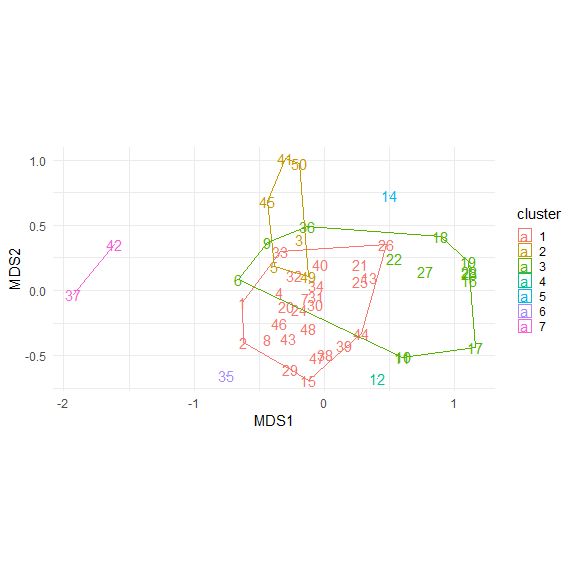
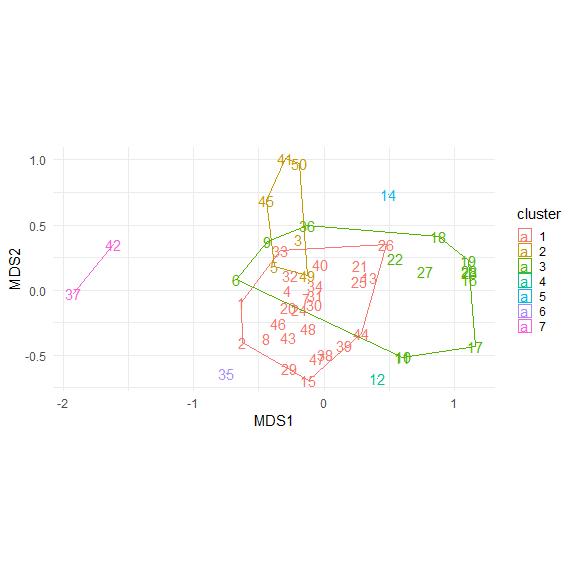
Draft zooplankton community analysis

diff --git a/Zoopl-Community-Analysis.md b/Zoopl-Community-Analysis.md
@@ -76,7 +76,7 @@ confirmed.
 # Two rows of Balanus from one sample.
 
 ``` r
-zoopl_community$count[18] <- 35 + 29
+zoopl_community$count[18] <- (35 + 29)/2
 zoopl_community <- zoopl_community[-19,]
 ```
 
@@ -111,7 +111,7 @@ zoopl_community
 #>  1 Bagadu~      55           103          0         116      32      0        32
 #>  2 Bagadu~      50           126          0          64      79      0         0
 #>  3 Bagadu~      41           147          0         154       0      0         0
-#>  4 Bagadu~      67           104         83          40      64      0         0
+#>  4 Bagadu~      67           104         83          40      32      0         0
 #>  5 Bagadu~      45            41         31         106      15      0        17
 #>  6 Bagadu~     211            42          0           0      81     48       134
 #>  7 Bagadu~     297            72         62          79      53      0         0
@@ -126,71 +126,81 @@ zoopl_community
 
 ## Default 2-D NMDS
 
+This generally fails to converge.
+
 ``` r
 NMDS_default <- metaMDS(zoopl_community[,-1], k = 2, autotransform = TRUE,
                         maxit = 50, trymax = 50)
 #> Square root transformation
 #> Wisconsin double standardization
-#> Run 0 stress 0.2059876 
-#> Run 1 stress 0.2003903 
+#> Run 0 stress 0.205402 
+#> Run 1 stress 0.2048711 
 #> ... New best solution
-#> ... Procrustes: rmse 0.07727681  max resid 0.2498926 
-#> Run 2 stress 0.1867486 
+#> ... Procrustes: rmse 0.09486153  max resid 0.2776757 
+#> Run 2 stress 0.1886686 
 #> ... New best solution
-#> ... Procrustes: rmse 0.07885747  max resid 0.2043896 
-#> Run 3 stress 0.1935797 
-#> Run 4 stress 0.1895086 
-#> Run 5 stress 0.2010221 
-#> Run 6 stress 0.2100378 
-#> Run 7 stress 0.2123175 
-#> Run 8 stress 0.1964796 
-#> Run 9 stress 0.1918425 
-#> Run 10 stress 0.1951201 
-#> Run 11 stress 0.196853 
-#> Run 12 stress 0.1951306 
-#> Run 13 stress 0.2095153 
-#> Run 14 stress 0.2053139 
-#> Run 15 stress 0.2113976 
-#> Run 16 stress 0.1877556 
-#> Run 17 stress 0.2046536 
-#> Run 18 stress 0.1901558 
-#> Run 19 stress 0.192635 
-#> Run 20 stress 0.193504 
-#> Run 21 stress 0.2024208 
-#> Run 22 stress 0.1896553 
-#> Run 23 stress 0.2001391 
-#> Run 24 stress 0.2089482 
-#> Run 25 stress 0.199861 
-#> Run 26 stress 0.2040772 
-#> Run 27 stress 0.190485 
-#> Run 28 stress 0.204831 
-#> Run 29 stress 0.2060007 
-#> Run 30 stress 0.2041718 
-#> Run 31 stress 0.2053776 
-#> Run 32 stress 0.2038777 
-#> Run 33 stress 0.1992232 
-#> Run 34 stress 0.2091926 
-#> Run 35 stress 0.2117059 
-#> Run 36 stress 0.2023679 
-#> Run 37 stress 0.2032589 
-#> Run 38 stress 0.1849829 
+#> ... Procrustes: rmse 0.07037083  max resid 0.2409328 
+#> Run 3 stress 0.2135785 
+#> Run 4 stress 0.1886024 
 #> ... New best solution
-#> ... Procrustes: rmse 0.04444531  max resid 0.2328228 
-#> Run 39 stress 0.1981218 
-#> Run 40 stress 0.1896055 
-#> Run 41 stress 0.2186814 
-#> Run 42 stress 0.1857615 
-#> Run 43 stress 0.1910557 
-#> Run 44 stress 0.2105312 
-#> Run 45 stress 0.1912791 
-#> Run 46 stress 0.1999969 
-#> Run 47 stress 0.199899 
-#> Run 48 stress 0.2000315 
-#> Run 49 stress 0.205945 
-#> Run 50 stress 0.2141925 
+#> ... Procrustes: rmse 0.02757016  max resid 0.1180147 
+#> Run 5 stress 0.2067008 
+#> Run 6 stress 0.1998152 
+#> Run 7 stress 0.20853 
+#> Run 8 stress 0.1978532 
+#> Run 9 stress 0.1853602 
+#> ... New best solution
+#> ... Procrustes: rmse 0.05351339  max resid 0.2410094 
+#> Run 10 stress 0.1891529 
+#> Run 11 stress 0.202062 
+#> Run 12 stress 0.2205635 
+#> Run 13 stress 0.1969244 
+#> Run 14 stress 0.202349 
+#> Run 15 stress 0.1875216 
+#> Run 16 stress 0.1898866 
+#> Run 17 stress 0.1875232 
+#> Run 18 stress 0.1867918 
+#> Run 19 stress 0.2076788 
+#> Run 20 stress 0.1929839 
+#> Run 21 stress 0.2220053 
+#> Run 22 stress 0.1995011 
+#> Run 23 stress 0.2164155 
+#> Run 24 stress 0.2078133 
+#> Run 25 stress 0.1950509 
+#> Run 26 stress 0.1875424 
+#> Run 27 stress 0.1988306 
+#> Run 28 stress 0.208625 
+#> Run 29 stress 0.1924163 
+#> Run 30 stress 0.2035824 
+#> Run 31 stress 0.2005931 
+#> Run 32 stress 0.2094047 
+#> Run 33 stress 0.2031234 
+#> Run 34 stress 0.2056254 
+#> Run 35 stress 0.1868907 
+#> Run 36 stress 0.1965627 
+#> Run 37 stress 0.1908303 
+#> Run 38 stress 0.1917965 
+#> Run 39 stress 0.2007128 
+#> Run 40 stress 0.2171635 
+#> Run 41 stress 0.1901504 
+#> Run 42 stress 0.2096276 
+#> Run 43 stress 0.2052599 
+#> Run 44 stress 0.2004647 
+#> Run 45 stress 0.1991416 
+#> Run 46 stress 0.1919093 
+#> Run 47 stress 0.2162771 
+#> Run 48 stress 0.184877 
+#> ... New best solution
+#> ... Procrustes: rmse 0.01881288  max resid 0.1015829 
+#> Run 49 stress 0.2013058 
+#> Run 50 stress 0.1911624 
 #> *** No convergence -- monoMDS stopping criteria:
 #>     50: no. of iterations >= maxit
 ```
+
+IN an effort to get this to converge, we can pool the less common
+species into a “rare” pseudo-species. An alternative is to drop them
+entirely.
 
 ``` r
 zoopl_trim <- zoopl_community %>%
@@ -201,60 +211,45 @@ zoopl_trim <- zoopl_community %>%
   select(-c(Membranipora :  Bougainvillia)) 
 ```
 
+This also sometimes fails to converge, and sometimes does converge. I
+use `set.seed()` here just to ensure we come back with one of the ones
+that does converge.
+
 ``` r
+set.seed(54321)
 NMDS_trim <- metaMDS(zoopl_trim, autotransform = TRUE,
                         maxit = 100, trymax = 50)
 #> Square root transformation
 #> Wisconsin double standardization
-#> Run 0 stress 0.2045442 
-#> Run 1 stress 0.1984991 
+#> Run 0 stress 0.2048293 
+#> Run 1 stress 0.1954844 
 #> ... New best solution
-#> ... Procrustes: rmse 0.0841664  max resid 0.2702848 
-#> Run 2 stress 0.2131749 
-#> Run 3 stress 0.1951194 
+#> ... Procrustes: rmse 0.07661131  max resid 0.1965559 
+#> Run 2 stress 0.2211269 
+#> Run 3 stress 0.1954965 
+#> ... Procrustes: rmse 0.002886941  max resid 0.0118807 
+#> Run 4 stress 0.198231 
+#> Run 5 stress 0.2072736 
+#> Run 6 stress 0.2078279 
+#> Run 7 stress 0.1983644 
+#> Run 8 stress 0.198997 
+#> Run 9 stress 0.1989538 
+#> Run 10 stress 0.2041129 
+#> Run 11 stress 0.1952331 
 #> ... New best solution
-#> ... Procrustes: rmse 0.0460659  max resid 0.2999019 
-#> Run 4 stress 0.2004032 
-#> Run 5 stress 0.195801 
-#> Run 6 stress 0.2146679 
-#> Run 7 stress 0.1984139 
-#> Run 8 stress 0.1989955 
-#> Run 9 stress 0.1986281 
-#> Run 10 stress 0.220654 
-#> Run 11 stress 0.2006441 
-#> Run 12 stress 0.1983234 
-#> Run 13 stress 0.1949749 
+#> ... Procrustes: rmse 0.008627627  max resid 0.04235529 
+#> Run 12 stress 0.2164094 
+#> Run 13 stress 0.1952331 
 #> ... New best solution
-#> ... Procrustes: rmse 0.002789328  max resid 0.01362919 
-#> Run 14 stress 0.2007009 
-#> Run 15 stress 0.2004136 
-#> Run 16 stress 0.1952738 
-#> ... Procrustes: rmse 0.008102096  max resid 0.0395038 
-#> Run 17 stress 0.1983236 
-#> Run 18 stress 0.2045442 
-#> Run 19 stress 0.2134995 
-#> Run 20 stress 0.2004035 
-#> Run 21 stress 0.2013893 
-#> Run 22 stress 0.2036505 
-#> Run 23 stress 0.1983236 
-#> Run 24 stress 0.2046971 
-#> Run 25 stress 0.2193489 
-#> Run 26 stress 0.204544 
-#> Run 27 stress 0.2110045 
-#> Run 28 stress 0.2119909 
-#> Run 29 stress 0.1986547 
-#> Run 30 stress 0.2038887 
-#> Run 31 stress 0.2207281 
-#> Run 32 stress 0.1948434 
-#> ... New best solution
-#> ... Procrustes: rmse 0.00491867  max resid 0.02525003 
-#> Run 33 stress 0.2084269 
-#> Run 34 stress 0.1949747 
-#> ... Procrustes: rmse 0.004849637  max resid 0.02519422 
-#> Run 35 stress 0.194843 
-#> ... New best solution
-#> ... Procrustes: rmse 0.0002065284  max resid 0.001025216 
+#> ... Procrustes: rmse 0.0001160009  max resid 0.0005749188 
 #> ... Similar to previous best
+#> Run 14 stress 0.1982984 
+#> Run 15 stress 0.199219 
+#> Run 16 stress 0.2041276 
+#> Run 17 stress 0.1982394 
+#> Run 18 stress 0.2016003 
+#> Run 19 stress 0.2123235 
+#> Run 20 stress 0.219074 
 #> *** Solution reached
 ```
 
@@ -339,14 +334,13 @@ class(hull[[1]])
 #> [1] "matrix" "array"
 hull[[1]]
 #>         NMDS1       NMDS2
-#> 44  0.2853890 -0.32770762
-#> 15 -0.1195457 -0.68844360
-#> 29 -0.2575486 -0.60839865
-#> 2  -0.6229546 -0.39603693
-#> 1  -0.6317117 -0.08937461
-#> 33 -0.3344563  0.30310050
-#> 26  0.4733661  0.35032318
-#> 44  0.2853890 -0.32770762
+#> 44  0.2840132 -0.33101609
+#> 15 -0.1169403 -0.69146690
+#> 2  -0.6261503 -0.39936270
+#> 1  -0.6315484 -0.09161072
+#> 33 -0.3375338  0.30357377
+#> 26  0.4777405  0.35246918
+#> 44  0.2840132 -0.33101609
 ```
 
 It’s just an array containing the points of the vertexes of the
@@ -364,20 +358,20 @@ hullsdfs <- map(hull, as_tibble) # Creates a list of tibbles
 hulls_df <- hullsdfs %>%
   bind_rows(.id = 'Cluster')  # converts number in the list to a variable
 hulls_df
-#> # A tibble: 31 x 3
+#> # A tibble: 30 x 3
 #>    Cluster  NMDS1   NMDS2
 #>    <chr>    <dbl>   <dbl>
-#>  1 1        0.285 -0.328 
-#>  2 1       -0.120 -0.688 
-#>  3 1       -0.258 -0.608 
-#>  4 1       -0.623 -0.396 
-#>  5 1       -0.632 -0.0894
-#>  6 1       -0.334  0.303 
-#>  7 1        0.473  0.350 
-#>  8 1        0.285 -0.328 
-#>  9 2       -0.124  0.106 
-#> 10 2       -0.380  0.181 
-#> # ... with 21 more rows
+#>  1 1        0.284 -0.331 
+#>  2 1       -0.117 -0.691 
+#>  3 1       -0.626 -0.399 
+#>  4 1       -0.632 -0.0916
+#>  5 1       -0.338  0.304 
+#>  6 1        0.478  0.352 
+#>  7 1        0.284 -0.331 
+#>  8 2       -0.130  0.110 
+#>  9 2       -0.384  0.182 
+#> 10 2       -0.441  0.685 
+#> # ... with 20 more rows
 ```
 
 ## Plot Clusters and Convex Hulls
